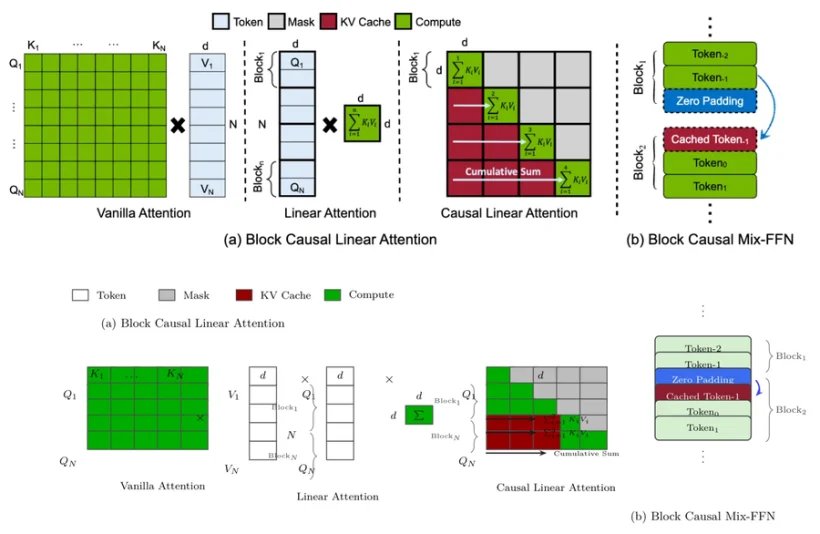
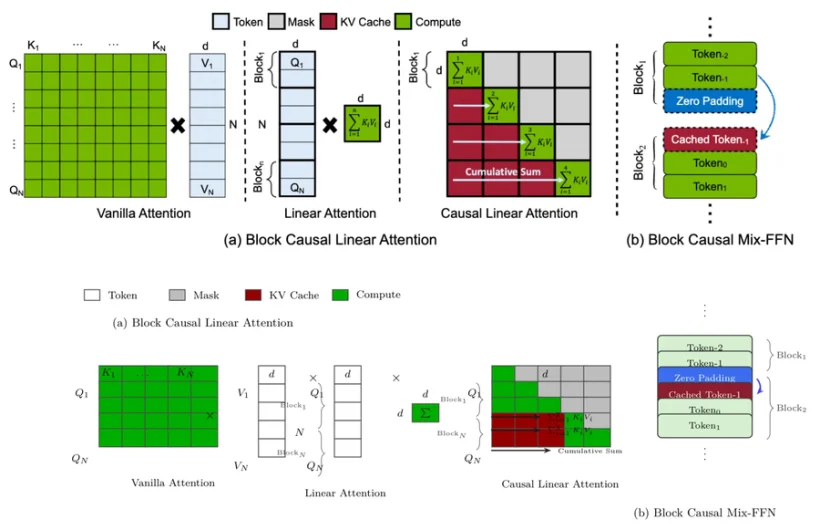
improve(replicas): 第二十七轮 —— 05 (c) 配色与粗体对齐原图
放大对比后发现原图 (c) 的方块不是白底：
- Scale 浅黄 fxscale #FBF0C4
- MatMul 浅灰 fxmatmul #DCDCDC
- ReLU 浅粉 fxrelu #FBE4E0
- Linear 白底
- ConvLayer 浅绿、Temporal/3D RoPE 橙（原有）
且所有方块内文字都是 \small\bfseries（原来无粗体）

其它：方块加宽（MatMul 3.00、Conv 3.30、Scale 2.55）、边框 1.3pt、
面板加宽到 14.55-22.00 / 22.35-26.60，三列间距 16.15/18.40/20.65

墨迹 0.465 → 0.498（原图 0.586），AR 2.31（+0.4%）

diff --git a/tools/figlab/reps_tikz.py b/tools/figlab/reps_tikz.py
@@ -25,6 +25,9 @@ ARCH_STYLES = r"""
 \definecolor{fxgrnd}{HTML}{7CB342}
 \definecolor{fxbluepad}{HTML}{3B6CF0}
 \definecolor{fxkv}{HTML}{8C1D2F}
+\definecolor{fxscale}{HTML}{FBF0C4}
+\definecolor{fxmatmul}{HTML}{DCDCDC}
+\definecolor{fxrelu}{HTML}{FBE4E0}
 \tikzset{
   box/.style={draw=black!55, line width=.5pt, rounded corners=3pt, align=center,
               font=\scriptsize, inner sep=3pt, minimum height=7mm},
@@ -41,7 +44,7 @@ ARCH_STYLES = r"""
 
 def fig05() -> str:
     return r"""
-\begin{tikzpicture}[x=1cm, y=0.871cm,
+\begin{tikzpicture}[x=1cm, y=0.894cm,
   box/.style={draw=black!90, line width=1.1pt, rounded corners=4pt, align=center,
               font=\scriptsize, inner sep=2.2pt, minimum height=6.2mm},
   org/.style={box, fill=fxorg, draw=black!65, font=\scriptsize\bfseries},
@@ -197,62 +200,61 @@ def fig05() -> str:
 \node[font=\large\bfseries] at (18.0,10.95) {Linear Attention};
 \node[font=\large\bfseries] at (23.6,10.95) {Mix-FFN};
 
-% ---- Linear Attention 面板（按原图比例放大：方块更大、圆角、粗边）
-\fill[fxblue, opacity=.62, rounded corners=10pt] (14.85,0.30) rectangle (21.45,10.62);
+% ---- Linear Attention 面板（方块按原图配色 + 加粗）
+\fill[fxblue, opacity=.62, rounded corners=10pt] (14.55,0.20) rectangle (22.00,10.75);
 
-\node[box, fill=white, minimum width=2.25cm, minimum height=1.10cm, font=\footnotesize] (sc) at (18.15,9.55) {Scale};
-\node[box, fill=white, minimum width=2.80cm, minimum height=1.10cm, font=\footnotesize] (mm1) at (18.15,8.28) {MatMul};
-\node[box, fill=white, minimum width=2.80cm, minimum height=1.10cm, font=\footnotesize] (mm0) at (19.00,6.80) {MatMul};
+\node[box, fill=fxscale, draw=black!85, line width=1.3pt, minimum width=2.55cm, minimum height=1.15cm, font=\small\bfseries] (sc) at (18.40,9.65) {Scale};
+\node[box, fill=fxmatmul, draw=black!85, line width=1.3pt, minimum width=3.00cm, minimum height=1.15cm, font=\small\bfseries] (mm1) at (18.40,8.30) {MatMul};
+\node[box, fill=fxmatmul, draw=black!85, line width=1.3pt, minimum width=3.00cm, minimum height=1.15cm, font=\small\bfseries] (mm0) at (19.15,6.75) {MatMul};
 
-\node[box, fill=fxorg, draw=black!65, minimum width=2.15cm, minimum height=1.05cm, font=\footnotesize\bfseries] (ropeL) at (16.28,5.30) {3D RoPE};
-\node[box, fill=fxorg, draw=black!65, minimum width=2.15cm, minimum height=1.05cm, font=\footnotesize\bfseries] (ropeR) at (20.08,5.30) {3D RoPE};
-\node[box, fill=fxpnk, draw=black!55, minimum width=1.75cm, minimum height=0.95cm, font=\footnotesize] (rl) at (16.28,3.92) {ReLU};
-\node[box, fill=fxpnk, draw=black!55, minimum width=1.75cm, minimum height=0.95cm, font=\footnotesize] (rr) at (20.08,3.92) {ReLU};
-\node[box, fill=white, minimum width=1.75cm, minimum height=0.95cm, font=\footnotesize] (lnQ) at (16.28,2.55) {Linear};
-\node[box, fill=white, minimum width=1.75cm, minimum height=0.95cm, font=\footnotesize] (lnK) at (18.18,2.55) {Linear};
-\node[box, fill=white, minimum width=1.75cm, minimum height=0.95cm, font=\footnotesize] (lnV) at (20.08,2.55) {Linear};
+\node[box, fill=fxorg, draw=black!85, line width=1.3pt, minimum width=2.20cm, minimum height=1.15cm, font=\small\bfseries] (ropeL) at (16.15,5.15) {3D RoPE};
+\node[box, fill=fxorg, draw=black!85, line width=1.3pt, minimum width=2.20cm, minimum height=1.15cm, font=\small\bfseries] (ropeR) at (20.65,5.15) {3D RoPE};
+\node[box, fill=fxrelu, draw=black!85, line width=1.3pt, minimum width=1.95cm, minimum height=1.05cm, font=\small\bfseries] (rl) at (16.15,3.70) {ReLU};
+\node[box, fill=fxrelu, draw=black!85, line width=1.3pt, minimum width=1.95cm, minimum height=1.05cm, font=\small\bfseries] (rr) at (20.65,3.70) {ReLU};
+\node[box, fill=white, draw=black!85, line width=1.3pt, minimum width=1.95cm, minimum height=1.05cm, font=\small\bfseries] (lnQ) at (16.15,2.30) {Linear};
+\node[box, fill=white, draw=black!85, line width=1.3pt, minimum width=1.95cm, minimum height=1.05cm, font=\small\bfseries] (lnK) at (18.40,2.30) {Linear};
+\node[box, fill=white, draw=black!85, line width=1.3pt, minimum width=1.95cm, minimum height=1.05cm, font=\small\bfseries] (lnV) at (20.65,2.30) {Linear};
 
-\node[font=\footnotesize] at (16.28,1.80) {$Q$};
-\node[font=\footnotesize] at (18.18,1.80) {$K$};
-\node[font=\footnotesize] at (20.08,1.80) {$V$};
+\node[font=\small] at (16.15,1.55) {$Q$};
+\node[font=\small] at (18.40,1.55) {$K$};
+\node[font=\small] at (20.65,1.55) {$V$};
 
-\draw[arr, line width=.8pt] (lnQ) -- (rl);
-\draw[arr, line width=.8pt] (rl) -- (ropeL);
-\draw[arr, line width=.8pt] (lnK) -- (rr);
-\draw[arr, line width=.8pt] (rr) -- (ropeR);
-\draw[arr, line width=.8pt] (ropeL.north) |- (17.60,6.80);
-\draw[arr, line width=.8pt] (ropeR.north) -- (20.08,6.05) -- (20.40,6.05);
-\draw[arr, line width=.8pt] (lnV.north) -- (20.08,1.70) -- (21.28,1.70) -- (21.28,6.30) -- (20.62,6.30);
-\draw[arr, line width=.8pt] (mm0.north) -- (19.00,7.74);
-\draw[arr, line width=.8pt] (mm1) -- (sc);
-\draw[arr, line width=.8pt] (sc.north) -- (18.15,10.20);
+\draw[arr, line width=1.1pt] (lnQ) -- (rl);
+\draw[arr, line width=1.1pt] (rl) -- (ropeL);
+\draw[arr, line width=1.1pt] (lnK) -- (rr);
+\draw[arr, line width=1.1pt] (rr) -- (ropeR);
+\draw[arr, line width=1.1pt] (ropeL.north) |- (17.75,6.75);
+\draw[arr, line width=1.1pt] (ropeR.north) -- (20.65,5.95) -- (20.95,5.95) -- (20.95,6.75) -- (20.70,6.75);
+\draw[arr, line width=1.1pt] (lnV.north) -- (20.65,1.95) -- (21.70,1.95) -- (21.70,6.75) -- (21.10,6.75);
+\draw[arr, line width=1.1pt] (mm0.north) -- (19.15,7.70);
+\draw[arr, line width=1.1pt] (mm1) -- (sc);
+\draw[arr, line width=1.1pt] (sc.north) -- (18.40,10.35);
 
-\node[lab2, font=\scriptsize] at (17.05,9.02) {$n\times d$};
-\node[lab2, font=\scriptsize] at (19.40,7.42) {$n\times d$};
-\node[lab2, font=\scriptsize] at (17.28,6.28) {$d\times n$};
-\node[lab2, font=\scriptsize] at (20.78,6.50) {$n\times d$};
+\node[font=\footnotesize] at (17.20,9.05) {$n\times d$};
+\node[font=\footnotesize] at (19.70,7.35) {$n\times d$};
+\node[font=\footnotesize] at (17.45,6.15) {$d\times n$};
+\node[font=\footnotesize] at (21.30,6.35) {$d\times d$};
 
-\node[font=\footnotesize, anchor=east] at (21.30,1.05) {Cost: $\mathcal{O}(n)$};
+\node[font=\small, anchor=east] at (21.85,1.05) {Cost: $\mathcal{O}(n)$};
 
 % ---- Mix-FFN 面板
-\fill[fxblue, opacity=.62, rounded corners=10pt] (21.80,0.30) rectangle (26.25,10.62);
+\fill[fxblue, opacity=.62, rounded corners=10pt] (22.35,0.20) rectangle (26.60,10.75);
 
-\node[box, fill=fxorg, draw=black!65, minimum width=3.70cm, minimum height=1.30cm,
-      font=\footnotesize\bfseries, align=center] (tmp) at (23.98,9.18)
+\node[box, fill=fxorg, draw=black!85, line width=1.3pt, minimum width=3.30cm, minimum height=1.45cm,
+      font=\small\bfseries, align=center] (tmp) at (24.15,9.25)
   {Temporal\\$3\times1\times1$ ConvLayer};
-\node[box, fill=fxgrn, draw=black!55, minimum width=3.70cm, minimum height=1.05cm, font=\footnotesize] (c1a) at (23.98,7.66) {$1\times1$ ConvLayer};
-\node[box, fill=fxgrn, draw=black!55, minimum width=3.70cm, minimum height=1.05cm, font=\footnotesize] (c2) at (23.98,4.90) {$1\times3\times3$ ConvLayer};
-\node[box, fill=fxgrn, draw=black!55, minimum width=3.70cm, minimum height=1.05cm, font=\footnotesize] (c3) at (23.98,2.55) {$1\times1$ ConvLayer};
-\node[circle, draw=black!65, fill=white, inner sep=2.2pt, font=\footnotesize] (mul) at (23.35,6.22) {$\otimes$};
-\node[box, fill=fxpnk, draw=black!55, minimum width=1.75cm, minimum height=0.95cm, font=\footnotesize] (silu) at (25.25,6.22) {SiLU};
+\node[box, fill=fxgrn, draw=black!85, line width=1.3pt, minimum width=3.30cm, minimum height=1.15cm, font=\small\bfseries] (c1a) at (24.15,7.60) {$1\times1$ ConvLayer};
+\node[box, fill=fxgrn, draw=black!85, line width=1.3pt, minimum width=3.30cm, minimum height=1.15cm, font=\small\bfseries] (c2) at (24.15,4.80) {$1\times3\times3$ ConvLayer};
+\node[box, fill=fxgrn, draw=black!85, line width=1.3pt, minimum width=3.30cm, minimum height=1.15cm, font=\small\bfseries] (c3) at (24.15,2.30) {$1\times1$ ConvLayer};
+\node[circle, draw=black!85, line width=1.2pt, fill=white, minimum size=0.50cm, inner sep=0pt, font=\small] (mul) at (23.45,6.15) {$\otimes$};
+\node[box, fill=fxrelu, draw=black!85, line width=1.3pt, minimum width=1.85cm, minimum height=1.05cm, font=\small\bfseries] (silu) at (25.45,6.15) {SiLU};
 
-\draw[arr, line width=.8pt] (c3) -- (c2);
-\draw[arr, line width=.8pt] (c2.north) -- (22.55,6.22) -- (23.08,6.22);
-\draw[arr, line width=.8pt] (silu.west) -- (mul.east);
-\draw[arr, line width=.8pt] (mul.north) -- (23.35,7.16) -- (23.60,7.16);
-\draw[arr, line width=.8pt] (c1a) -- (tmp);
-\draw[arr, line width=.8pt] (tmp.north) -- (23.98,10.05);
-\node[ttl] at (23.65,-0.05) {(c). Linear DiT module};
+\draw[arr, line width=1.1pt] (c3) -- (c2);
+\draw[arr, line width=1.1pt] (c2.north) -- (23.00,6.15) -- (23.20,6.15);
+\draw[arr, line width=1.1pt] (silu.west) -- (mul.east);
+\draw[arr, line width=1.1pt] (mul.north) -- (23.45,7.02) -- (23.70,7.02);
+\draw[arr, line width=1.1pt] (c1a) -- (tmp);
+\draw[arr, line width=1.1pt] (tmp.north) -- (24.15,10.20);
 \end{tikzpicture}
 """
 
